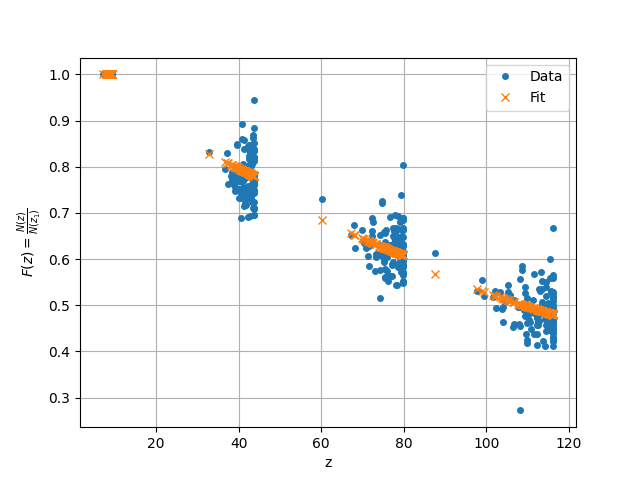
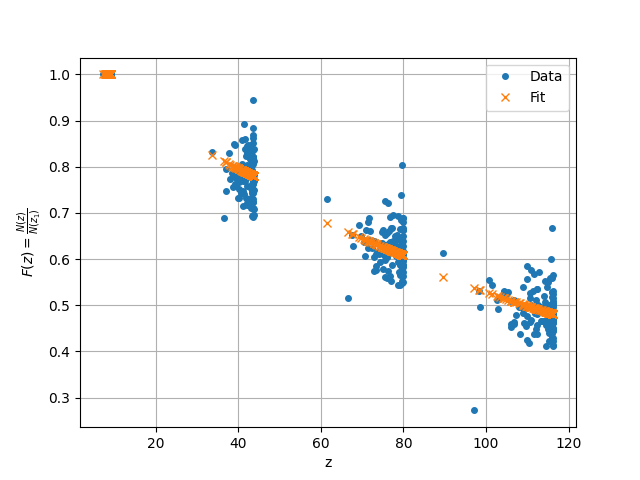
correct tilt angle calculation, now uses only first 3 points

diff --git a/src/picasimpler/main/analysis.py b/src/picasimpler/main/analysis.py
@@ -312,7 +312,7 @@ class SpatialFit(QObject):
         """
         This function computes tilt angles for all the selected origamis based on xy cluster positions and expected z positions of the sites
         """
-        self.tilt_angles = np.array([self._tilts_form_xy(self.z_sites_nm, hor_pos[:, 0:2])[0] for hor_pos in self.clust_means_forfit])
+        self.tilt_angles = np.array([self._tilts_form_xy(self.z_sites_nm[:-1], o_pos[:-1, 0:2])[0] for o_pos in self.clust_means_forfit])
         
     def _calc_z_real(self):
         """
@@ -401,7 +401,7 @@ class SpatialFit(QObject):
             den = alpha_F * np.exp(-z_0 / d_F) + (1 - alpha_F)
             return num / den
         # Fit
-        popt, pcov = curve_fit(F, flat_z, F_data, p0=p0)
+        popt, pcov = curve_fit(F, flat_z, F_data, p0=p0, bounds=([0,0],[1, np.inf]))
         alpha_F, d_F = popt
 
         perr = np.sqrt(np.diag(pcov))
@@ -413,7 +413,6 @@ class SpatialFit(QObject):
         # variables for later plot
         self.y_values = (self.alpha_F * np.exp(-self.z_real / self.d_F) + (1 - self.alpha_F)) / (self.alpha_F * np.exp(-self.z_real[:, 0, np.newaxis] / self.d_F) + (1 - self.alpha_F))
         self.F_values = N_data / N_data[:, 0, np.newaxis]
-
 
 @dataclass
 class Params:

diff --git a/src/picasimpler/config/config_var.py b/src/picasimpler/config/config_var.py
@@ -21,3 +21,4 @@ RES_DIR = Path("results")
 # initial guesses for calibration fit
 ALPHA_GUESS = 0.9
 D_GUESS = 100
+SPACER_GUESS = 10
